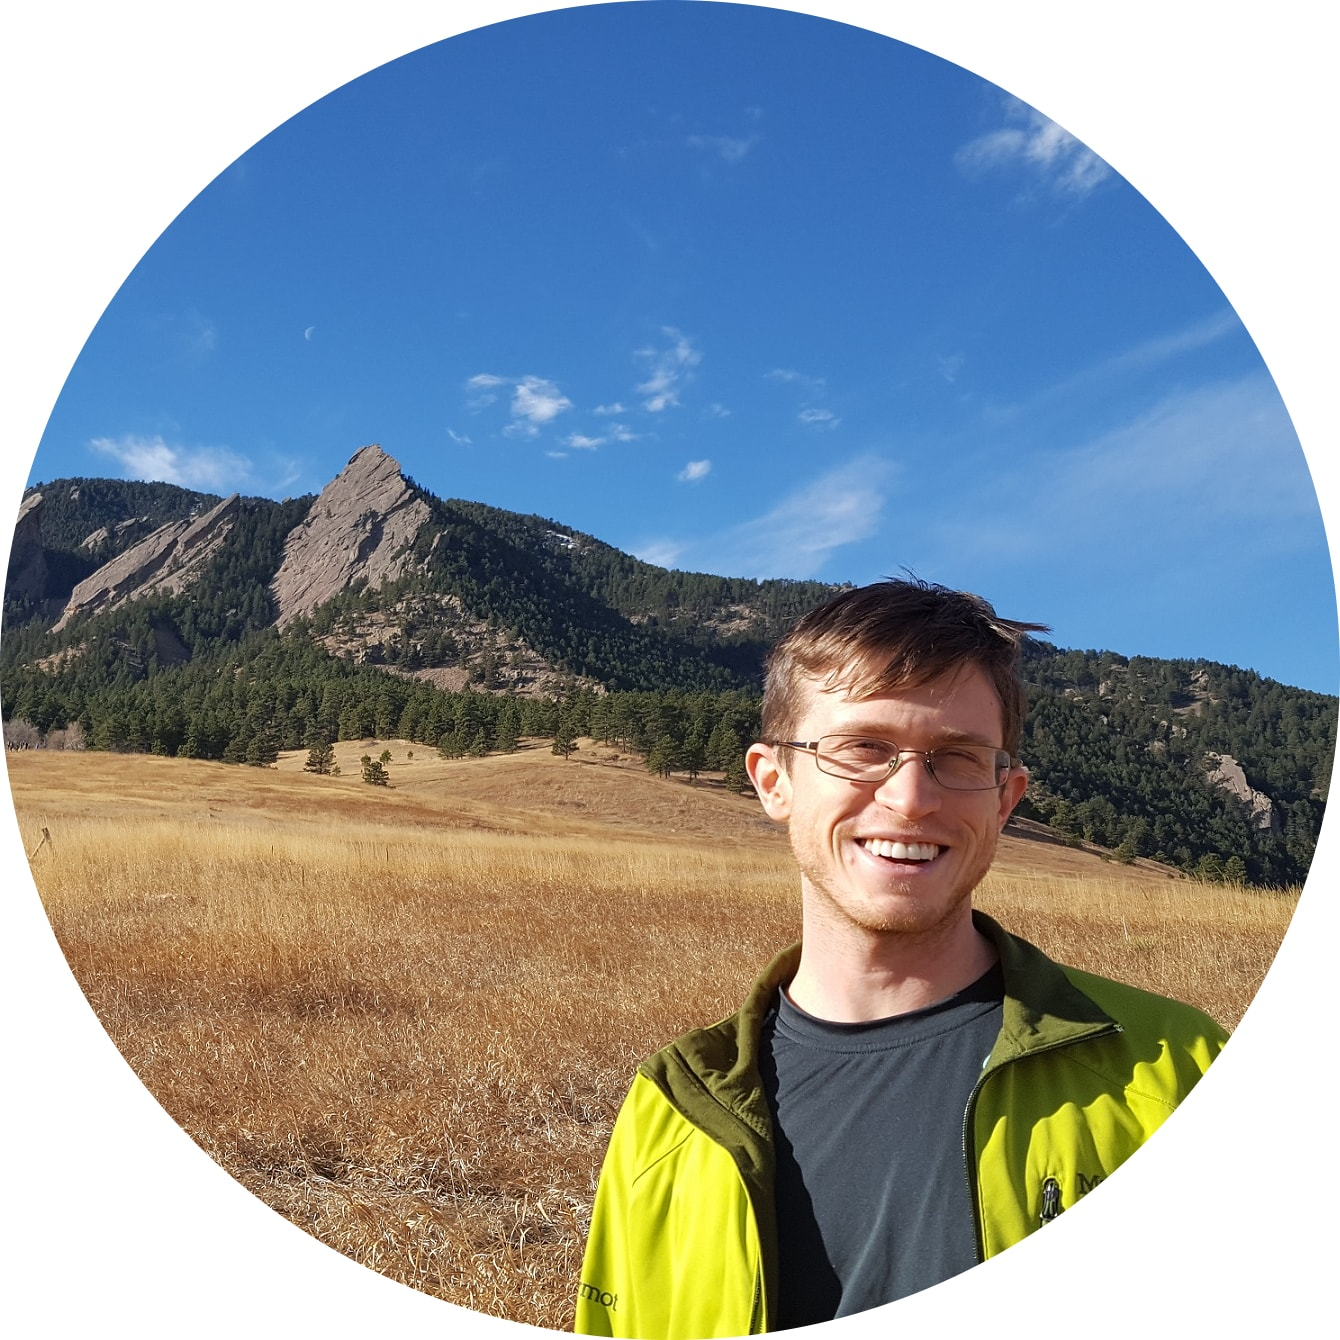
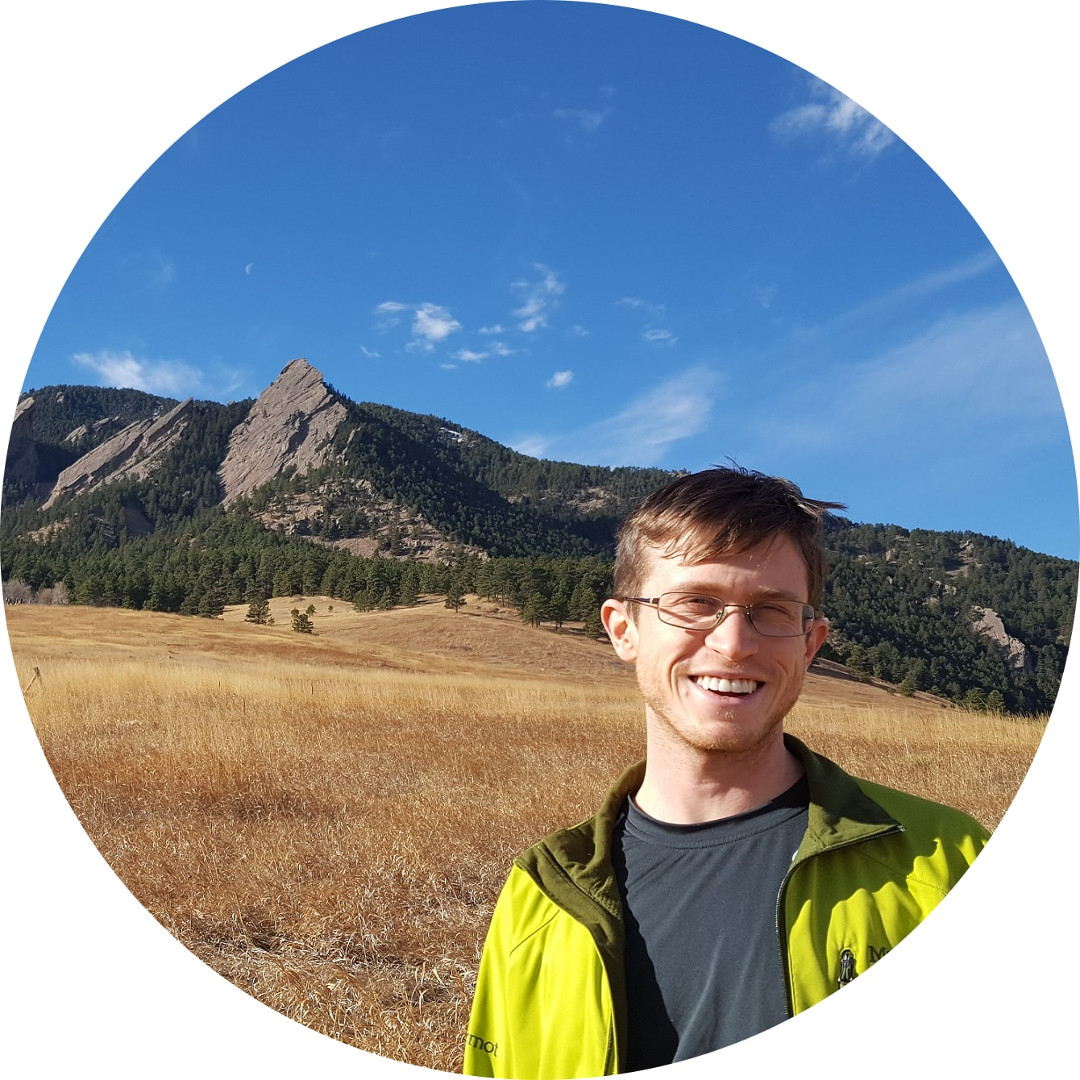
Restart5

diff --git a/index.html b/index.html
@@ -2,17 +2,14 @@
 layout: default
 title: Matthew Ridge Butner
 ---
-<div class="blurb">
-	<h1>Current Projects</h1>
+<table style="width:100%">
+  <tr>
+	<th>  
+		<img src="images/flatiron_c_comp.jpg" alt="Boulder Flatirons" width="25%"> 
+	</th>
+	<th> 
+	PhD Candidate <br> University of Colorado Boulder <br> Economics, Energy, Environment. <br> matt[dot]butner[at]gmail[dot]com
+	</th>
+  </tr>
+</table>
 
-	<!--Look into collapse bootstrap js --> 
-	<h2>Pass-through of increased renewable generation in wholesale electricity markets </h2>
-	<p>Renewable generation has become a significant portion of the American electrical grid as the associated costs have declined, the technological efficiency has improved, and public policies have supported investment and production. The extent to which increased renewable generation is realized as a reduction in fuel costs by the generators of electricity, or is translated into a reduction in the market price payed by consumers, has implications for investment decision and effective policy design.  In this paper, I use rich micro-data on generator strategies in wholesale electricity markets within the US Midcontinent Independent System Operator, from 2014 to 2016, to quantify the pass-through rate of increased renewable generation onto market price. Results indicate the pass-through rate of increased wind generation depends on the slope of the residual demand curve as well as the ownership of the generation assets, as legacy fossil fuel generators can curtail their generation offer to keep the market price high.  </p>
-
-
-	<h2>Concentration effects of heterogeneous standards: refinery response to the clean air act amendments </h2>
-	<p>Sometimes environmental regulations will alter the geographic and product markets in which firms compete. This can impact the firm’s ability to exercise market power, and profits subsequently. The boutique fuel standards related to the 1990 Clean Air Act Amendments did exactly this to the petroleum refining industry by mandating unconventional, cleaner burning, fuels to be used in certain counties of the United States. While the production of the cleaner fuel increased the fixed and variable cost of refineries, it also allowed them to recuperate lost profits by selling their product in a more concentrated market with a higher markup. Using a latent profit approach, I show evidence the change in profitability offset investment cost in contrast to industry claims. I then construct and simulate a model of spatial Cournot competition, where the refineries behave as multiproduct firms with capacity constraints. This supports the observed pattern of investment and exit.</p>
-
-	<h2>Incentives for private public bundling as a provision for public goods</h2>
-	<p>A common form of corporate social responsibility is to sell a private good to a consumer that is bundled with a public good or a donation towards a public good. This changes the consumers purchasing decisions and can either increase or decrease the total welfare depending on the structure of the bundle and consumer preferences. At the same time, firms are endogenously choosing the bundling structure in a way that is privately profitable. I consider how the profit maximizing bundle choice by the firm compares to a bundle choice that maximizes total welfare, and what sort of incentives or policy mechanisms can lead to a welfare maximizing bundle. Further, to what extent does bundling, for welfare or profit maximization, approximate the first best provision of the public good as chosen by a social planner. </p>
-</div><!-- /.blurb -->

diff --git a/research/index.html b/research/index.html
@@ -1,0 +1,18 @@
+---
+layout: default
+title: Matthew Ridge Butner
+---
+<div class="blurb">
+	<h1>Current Projects</h1>
+
+	<!--Look into collapse bootstrap js --> 
+	<h2>Pass-through of increased renewable generation in wholesale electricity markets </h2>
+	<p>Renewable generation has become a significant portion of the American electrical grid as the associated costs have declined, the technological efficiency has improved, and public policies have supported investment and production. The extent to which increased renewable generation is realized as a reduction in fuel costs by the generators of electricity, or is translated into a reduction in the market price payed by consumers, has implications for investment decision and effective policy design.  In this paper, I use rich micro-data on generator strategies in wholesale electricity markets within the US Midcontinent Independent System Operator, from 2014 to 2016, to quantify the pass-through rate of increased renewable generation onto market price. Results indicate the pass-through rate of increased wind generation depends on the slope of the residual demand curve as well as the ownership of the generation assets, as legacy fossil fuel generators can curtail their generation offer to keep the market price high.  </p>
+
+
+	<h2>Concentration effects of heterogeneous standards: refinery response to the clean air act amendments </h2>
+	<p>Sometimes environmental regulations will alter the geographic and product markets in which firms compete. This can impact the firm’s ability to exercise market power, and profits subsequently. The boutique fuel standards related to the 1990 Clean Air Act Amendments did exactly this to the petroleum refining industry by mandating unconventional, cleaner burning, fuels to be used in certain counties of the United States. While the production of the cleaner fuel increased the fixed and variable cost of refineries, it also allowed them to recuperate lost profits by selling their product in a more concentrated market with a higher markup. Using a latent profit approach, I show evidence the change in profitability offset investment cost in contrast to industry claims. I then construct and simulate a model of spatial Cournot competition, where the refineries behave as multiproduct firms with capacity constraints. This supports the observed pattern of investment and exit.</p>
+
+	<h2>Incentives for private public bundling as a provision for public goods</h2>
+	<p>A common form of corporate social responsibility is to sell a private good to a consumer that is bundled with a public good or a donation towards a public good. This changes the consumers purchasing decisions and can either increase or decrease the total welfare depending on the structure of the bundle and consumer preferences. At the same time, firms are endogenously choosing the bundling structure in a way that is privately profitable. I consider how the profit maximizing bundle choice by the firm compares to a bundle choice that maximizes total welfare, and what sort of incentives or policy mechanisms can lead to a welfare maximizing bundle. Further, to what extent does bundling, for welfare or profit maximization, approximate the first best provision of the public good as chosen by a social planner. </p>
+</div><!-- /.blurb -->

diff --git a/_layouts/default.html b/_layouts/default.html
@@ -32,6 +32,9 @@
     		<ul>
         		<li><a href="mailto:mattbutner@gmail.com">email</a></li>
         		<li><a href="https://github.com/mattbutner">github.com/mattbutner</a></li>
+        		<li><a href="https://github.com/mattbutner">github.com/mattbutner</a></li>
+        		<li><a href="https://twitter.com/MattButner">twitter</a></li>
+        		<li><a href="https://www.linkedin.com/in/matthew-butner">linkedin</a></li>
 			</ul>
 		</footer>
 	</body>

diff --git a/css/main.css b/css/main.css
@@ -34,13 +34,16 @@ ul.posts li {
     list-style: none;
 }
 
-
-*{
+* {
     box-sizing: border-box;
 }
 
+body {
+    margin: 0;
+}
+
 /* Create two equal columns that floats next to each other */
-column {
+.column {
     float: left;
     width: 50%;
     padding: 10px;
@@ -48,7 +51,7 @@ column {
 }
 
 /* Clear floats after the columns */
-row:after {
+.row:after {
     content: "";
     display: table;
     clear: both;
